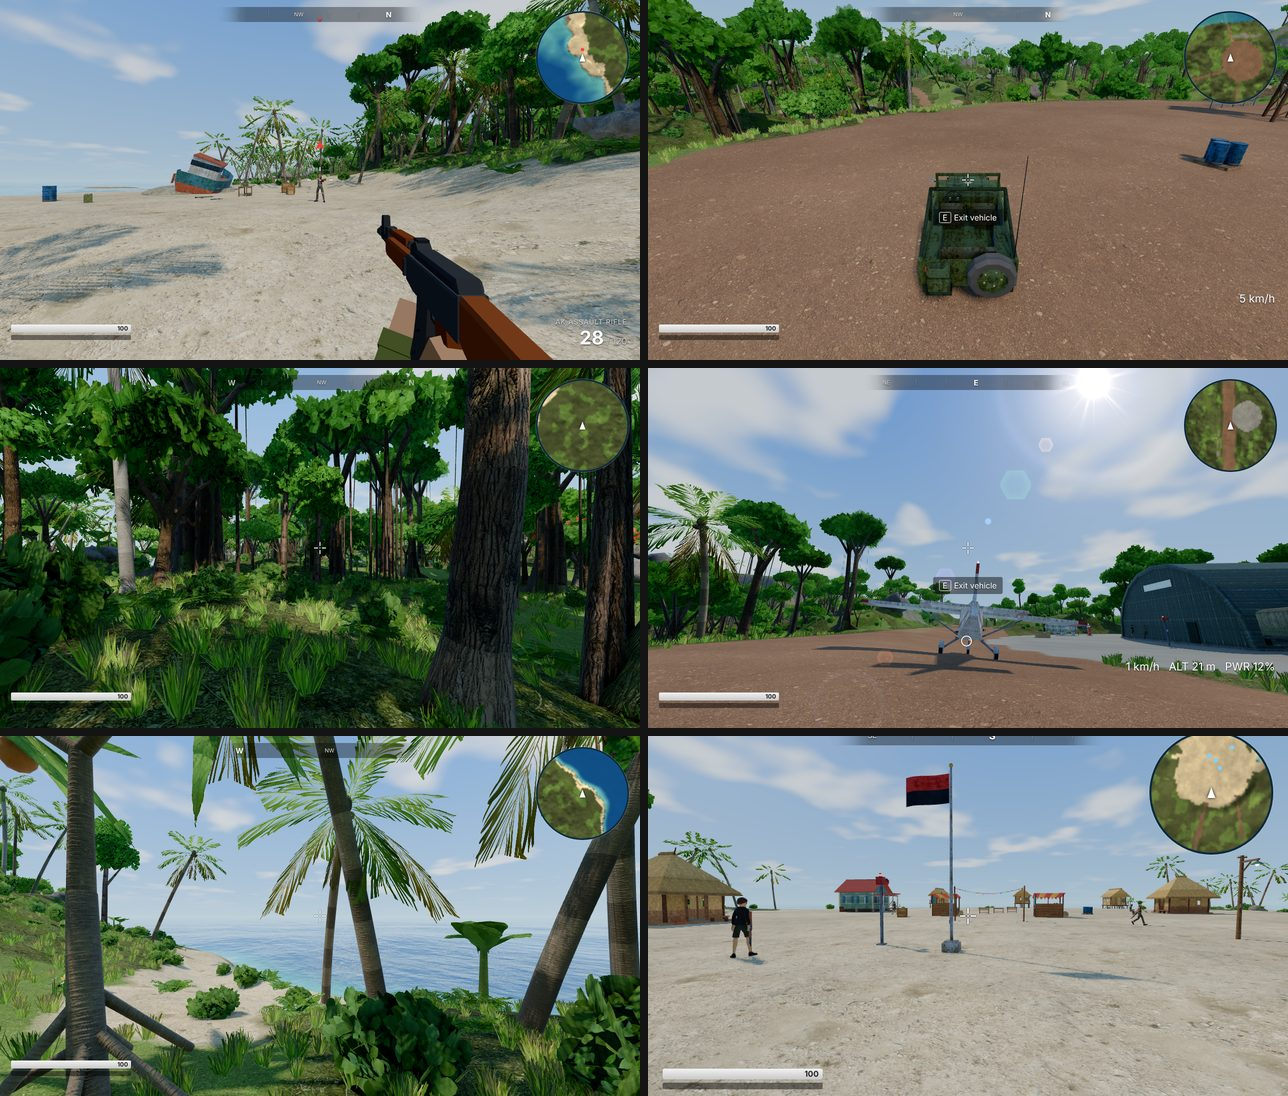
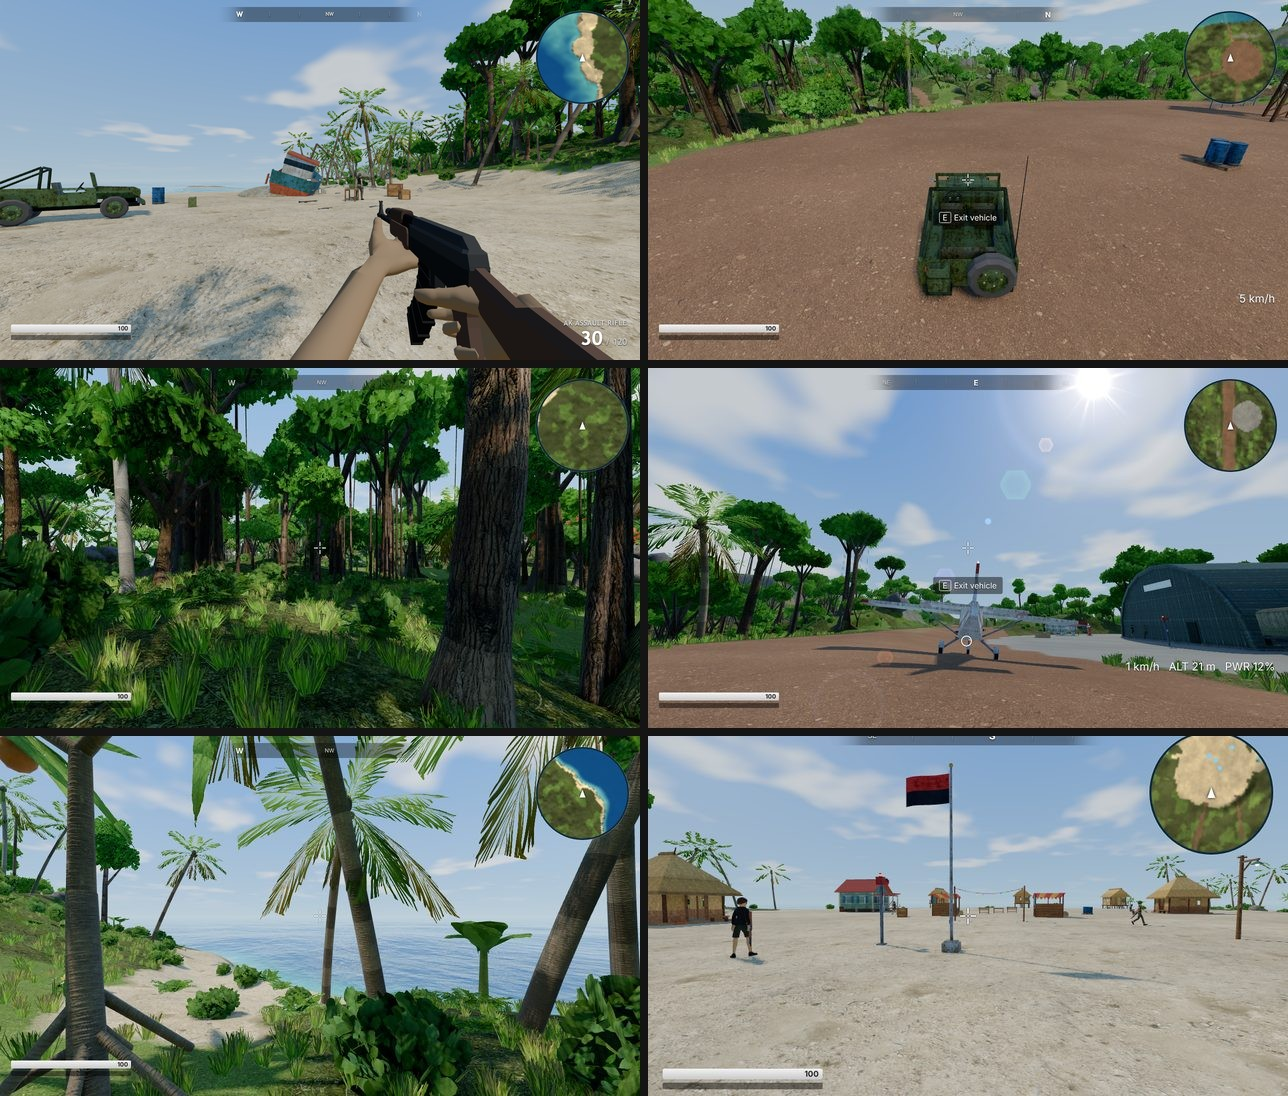
README: in-game collage on top; its shooting shot retaken with the real arms and the Quaternius AK

Changed region(s): [[0.0, 0.0, 0.4969, 0.3412], [0.0, 0.0, 0.1242, 0.1241], [0.0, 0.062, 0.0311, 0.1241]]

diff --git a/README.md b/README.md
@@ -1,6 +1,6 @@
 # Mini Cry — Isla Sombra
 
-[![Puerto Viejo and the lagoon](docs/screenshot.jpg)](https://vvanghelue.github.io/mini-cry/)
+[![In game: shooting, jeep, jungle, bush plane, coast, village](docs/realistic/gameplay.jpg)](https://vvanghelue.github.io/mini-cry/)
 
 ![Stilt huts on the lagoon](docs/screenshot_beach.jpg)
 
